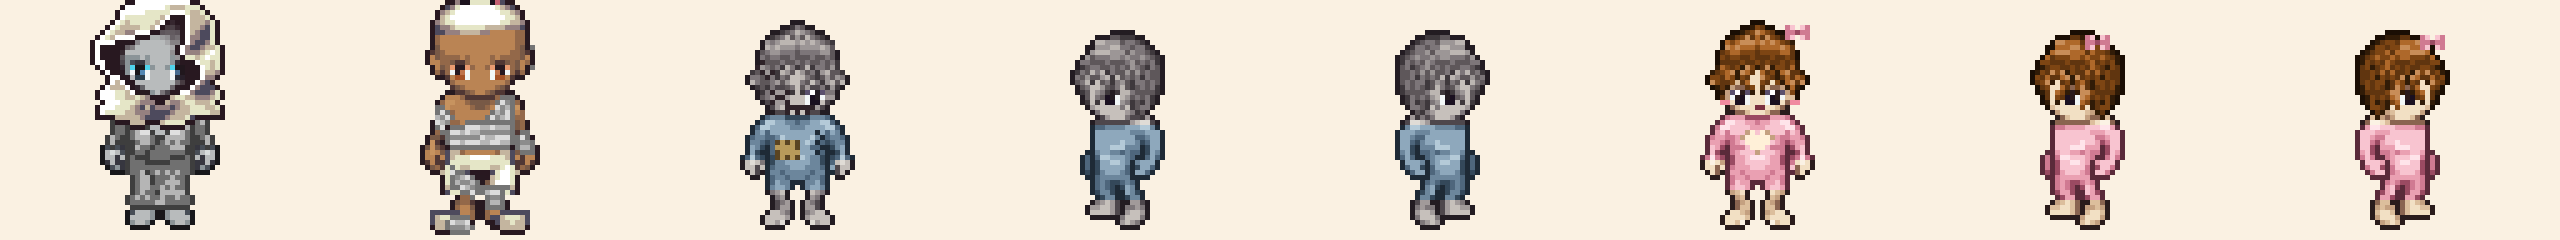
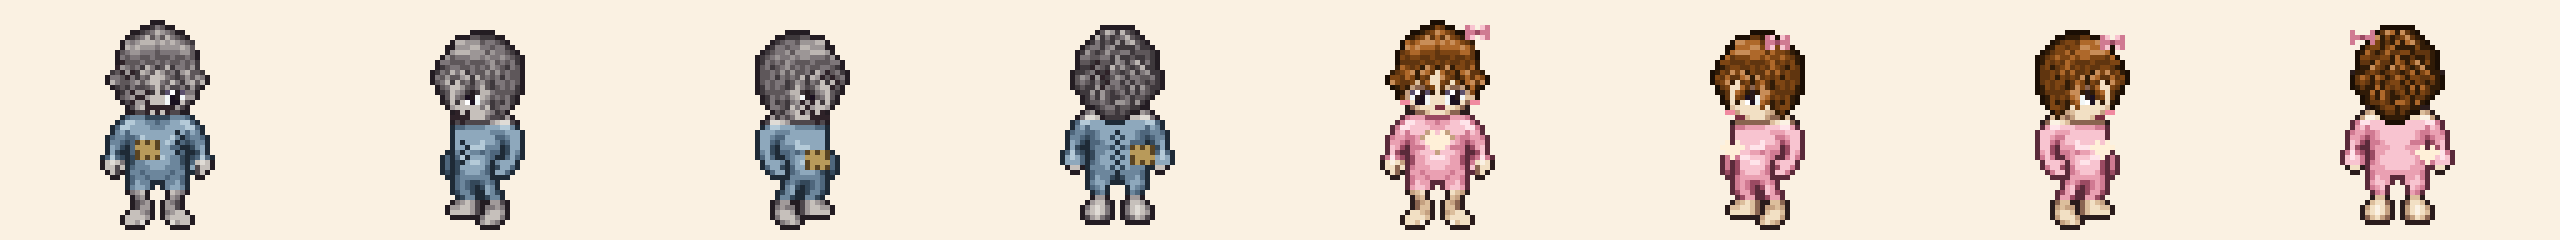
누비 옆모습·뒷모습에도 바늘땀·덧댄 헝겊·단추 눈
Claude-Session: https://claude.ai/code/session_01HhJ2NoNCjk5kaA3GWL7UDs

diff --git a/tools/iso/lpc/nubi_lpc.py b/tools/iso/lpc/nubi_lpc.py
@@ -63,6 +63,27 @@ def dress(row, fixed):
                 o([(24, 36), (25, 36), (38, 36), (39, 36)], '#f08aa0'); o([(31, 37), (32, 37)], '#7a3040')     # 볼 · 입
                 o([(29, 42), (30, 42), (32, 42), (33, 42), (28, 43), (29, 43), (30, 43), (31, 43), (32, 43), (33, 43), (34, 43), (29, 44), (30, 44), (31, 44), (32, 44), (33, 44), (30, 45), (31, 45), (32, 45), (31, 46)], '#fff0d8')
                 o([(29, 42), (33, 42), (28, 43), (34, 43), (31, 46)], '#c4a080')                              # 하트 헝겊
+        K, SK = '#2e2228', '#a19a9a'
+        if not fixed and d == 2:   # 왼쪽 보기: 단추 눈 · 꿰맨 입 · 옷 꿰맨 자국
+            o([(29, 34)], '#ffffff')
+            o([(26, 37), (27, 37), (28, 37), (29, 37)], K); o([(27, 36), (29, 36), (28, 38)], K)
+            o([(28, 42), (29, 43), (28, 44), (29, 45), (28, 46)], '#1e2a36')
+        if not fixed and d == 3:   # 오른쪽 보기: X 바늘땀 눈 · 꿰맨 입 · 볼 바늘땀 · 덧댄 헝겊
+            o([(33, 34), (34, 34), (33, 35), (34, 35), (33, 36), (34, 36)], SK); o([(32, 34), (34, 34), (33, 35), (32, 36), (34, 36)], K)
+            o([(34, 37), (35, 37), (36, 37), (37, 37)], K); o([(34, 36), (36, 36), (35, 38)], K)
+            o([(37, 28), (38, 29), (39, 30), (36, 29), (38, 31)], K)
+            o([(x, y) for x in range(33, 38) for y in range(44, 48)], '#b89a5a'); o([(33, 44), (35, 44), (37, 44), (33, 47), (35, 47), (37, 47), (33, 46), (37, 45)], '#5a4422')
+        if not fixed and d == 1:   # 뒷모습: 등 솔기 · 덧댄 헝겊 · 머리 바늘땀
+            o([(31, y) for y in range(41, 52, 2)], '#1e2a36'); o([(30, y) for y in range(42, 52, 2)] + [(32, y) for y in range(42, 52, 2)], '#34485a')
+            o([(x, y) for x in range(34, 39) for y in range(44, 48)], '#b89a5a'); o([(34, 44), (36, 44), (38, 44), (34, 47), (36, 47), (38, 47), (34, 46), (38, 45)], '#5a4422')
+            o([(26, 28), (27, 29), (28, 30), (29, 31), (27, 27), (29, 29), (26, 30), (28, 32)], K)
+        if fixed and d == 2:
+            o([(29, 34)], '#ffffff'); o([(25, 36), (26, 36)], '#f08aa0'); o([(27, 37), (28, 37)], '#7a3040')
+            o([(25, 42), (27, 42), (24, 43), (25, 43), (26, 43), (27, 43), (28, 43), (25, 44), (26, 44), (27, 44), (26, 45)], '#fff0d8')
+        if fixed and d == 3:
+            o([(33, 34)], '#ffffff'); o([(37, 36), (38, 36)], '#f08aa0'); o([(35, 37), (36, 37)], '#7a3040')
+            o([(35, 42), (37, 42), (34, 43), (35, 43), (36, 43), (37, 43), (38, 43), (35, 44), (36, 44), (37, 44), (36, 45)], '#fff0d8')
+        if fixed and d == 1: o([(36, 44), (38, 44), (35, 45), (36, 45), (37, 45), (38, 45), (39, 45), (36, 46), (37, 46), (38, 46), (37, 47)], '#fff0d8')   # 등에 작은 하트
         if fixed and d != 1:   # 리본 (머리 오른쪽 위)
             bx = {0: 37, 2: 33, 3: 36}[d] if d in (0, 2, 3) else 37
             o([(bx, 21), (bx + 1, 22), (bx, 22), (bx, 23), (bx + 4, 21), (bx + 3, 22), (bx + 4, 22), (bx + 4, 23)], '#d07a92')
